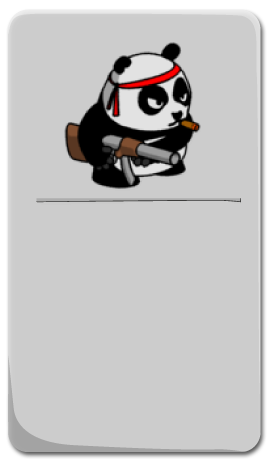
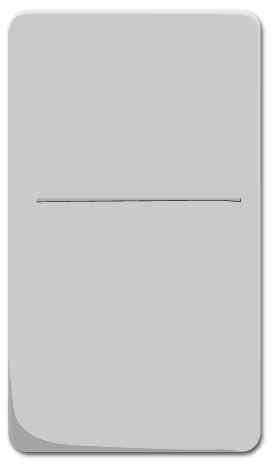
added animation in equip panda

Changed region(s): [[0.2353, 0.0905, 0.7353, 0.4224]]

diff --git a/Classes/crimson/layers/EquipPandaLayer.cpp b/Classes/crimson/layers/EquipPandaLayer.cpp
@@ -49,6 +49,8 @@ bool EquipPandaLayer::init() {
 	skillsContainer->addChild(skillsPanda);
 	this->addChild(skillsContainer, 10);
 
+	this->createPandaItem(skillsPanda);
+
 	cocos2d::CCSprite* spriteCoins = SpriteUtil::create("equip/coins.png", skillsPandaX,
 														skillsPandaHeight * 1.1 + skillsPandaY - ((skillsPandaWidth * 0.34) / 2),
 														skillsPanda);
@@ -83,6 +85,32 @@ bool EquipPandaLayer::init() {
 	this->loadMejoras(skillsPandaWidth, skillsPandaHeight, skillsPandaX, skillsPandaY, skillsPanda);
 
 	return true;
+}
+
+void EquipPandaLayer::createPandaItem(cocos2d::CCSprite* skillsPanda) {
+	dxco::SpriteUtil::preloadTextureWithFile("sprite_sheets/panda1.plist");
+
+	float pandaWidth = 0.85 * SpriteUtil::getWidth(skillsPanda);
+	float pandaX = skillsPanda->getPositionX() - SpriteUtil::getWidth(skillsPanda) * 0.2;
+	float pandaY = skillsPanda->getPositionY() + SpriteUtil::getHeight(skillsPanda) * 0.05;
+
+	cocos2d::CCSprite* pandaSprite = SpriteUtil::create("caminata_15_0000.png", pandaX, pandaY, pandaWidth, pandaWidth, true);
+	this->addChild(pandaSprite, 10);
+
+	cocos2d::CCArray *animFrames = cocos2d::CCArray::createWithCapacity(14);
+
+	for (int i=0; i <14; i++) {
+		std::string index = "00" + StringUtil::toString(i);
+		if (i < 10) {
+			index = "0" + index;
+		}
+		animFrames->addObject(SpriteUtil::createSpriteFrame("caminata_15_" + index + ".png"));
+	}
+
+	cocos2d::CCAnimation *animation = cocos2d::CCAnimation::createWithSpriteFrames(animFrames, 0.05);
+	cocos2d::CCAnimate* animate = cocos2d::CCAnimate::create(animation);
+	pandaSprite->runAction(cocos2d::CCRepeatForever::create(animate));
+
 }
 
 void EquipPandaLayer::loadMejoras(float skillsPandaWidth, float skillsPandaHeight, float skillsPandaX, float skillsPandaY,

diff --git a/Classes/crimson/layers/EquipPandaLayer.h b/Classes/crimson/layers/EquipPandaLayer.h
@@ -44,6 +44,7 @@ public:
 	int getBonus();
 	void loadMejoras(float skillsPandaWidth, float skillsPandaHeight, float skillsPandaX, float skillsPandaY,
 			cocos2d::CCSprite* scaleMaster);
+	void createPandaItem(cocos2d::CCSprite* skillsPanda);
 
 	int touchId;
 };
